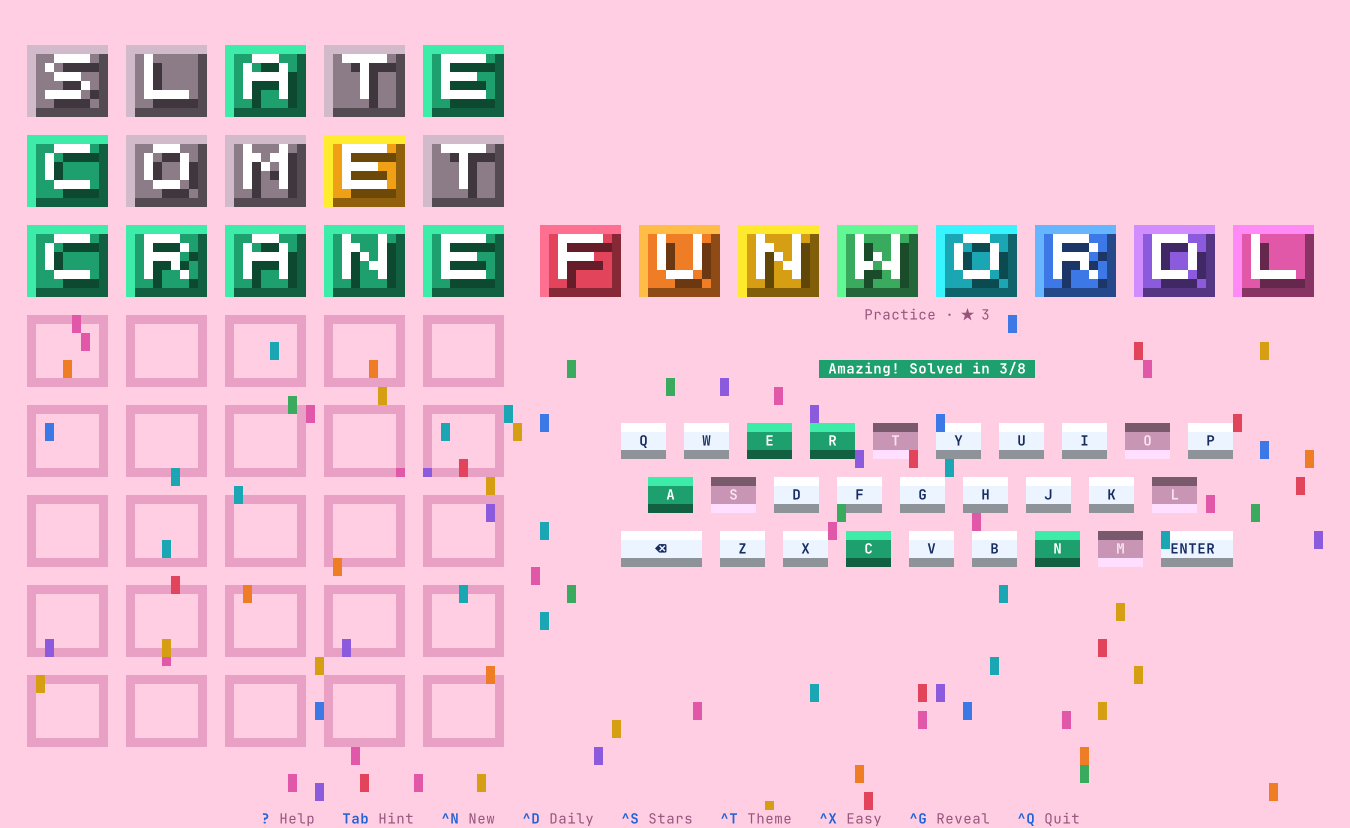
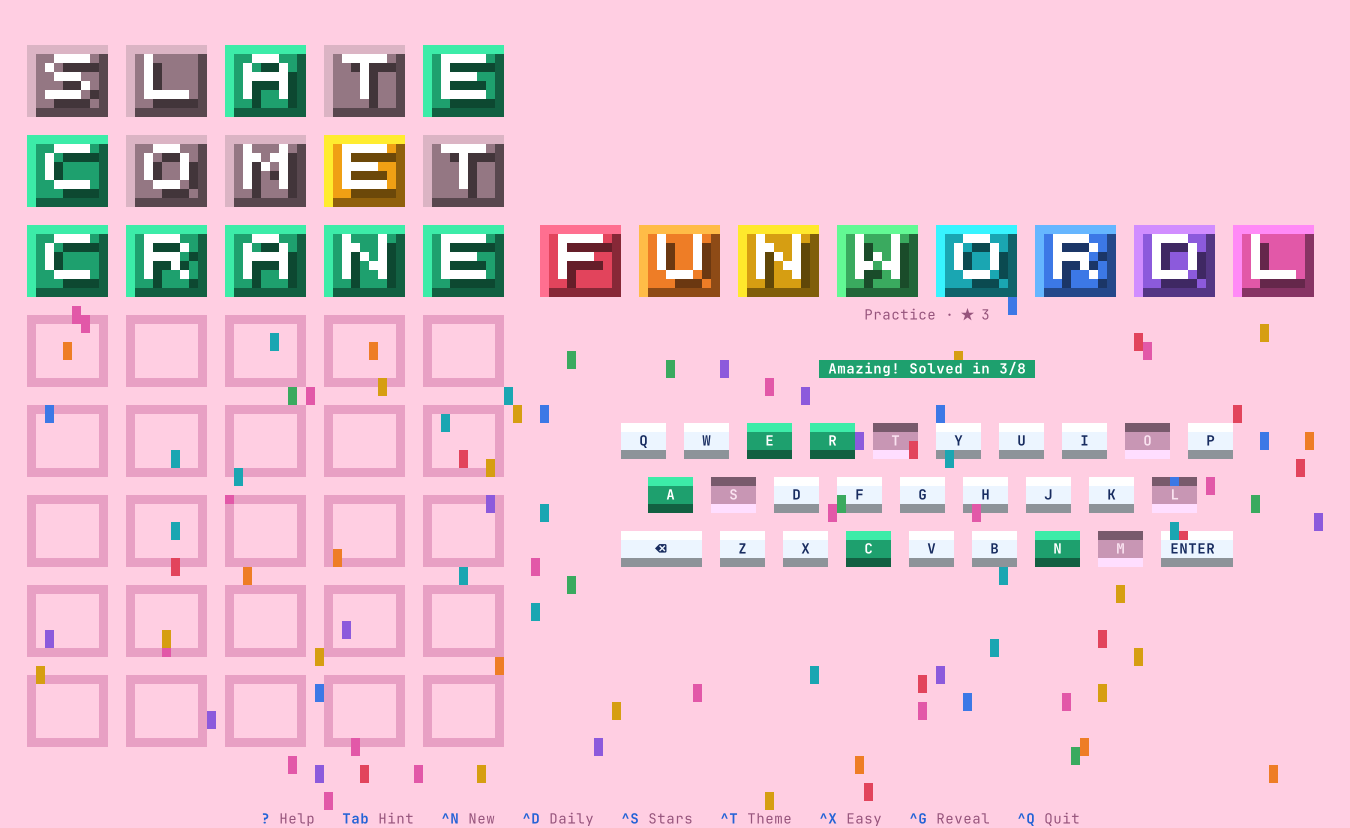
Show a letter that is not in the word as a darker shade of the background
On the bright themes a gray tile looked out of place on a colored background, so
there it is now the background's own color, darker. On the green themes the shade
is pulled towards gray so that it cannot pass for the green of a right letter. The
dark themes keep their gray.

Also: mint's background and its green are adjusted so that both stay green on
terminals with 256 colors, and a test checks that no theme's green or yellow turns
gray there.

diff --git a/src/theme.rs b/src/theme.rs
@@ -389,7 +389,7 @@ pub fn theme(name: &str, truecolor: bool) -> Theme {
         (96, 100, 132), // typed
         (78, 140, 110), // g
         (228, 164, 72), // y
-        (132, 130, 138), // x
+        (143, 138, 124), // x
         (150, 206, 176), // win
         (255, 255, 255), // gfg
         (46, 48, 72), // yfg
@@ -414,7 +414,7 @@ pub fn theme(name: &str, truecolor: bool) -> Theme {
         (33, 118, 150), // typed
         (30, 150, 96), // g
         (255, 183, 3), // y
-        (104, 116, 128), // x
+        (93, 123, 138), // x
         (120, 220, 160), // win
         (255, 255, 255), // gfg
         (2, 48, 71), // yfg
@@ -439,7 +439,7 @@ pub fn theme(name: &str, truecolor: bool) -> Theme {
         (88, 112, 190), // typed
         (30, 160, 110), // g
         (240, 160, 20), // y
-        (140, 124, 136), // x
+        (148, 119, 131), // x
         (120, 226, 176), // win
         (255, 255, 255), // gfg
         (255, 255, 255), // yfg
@@ -464,7 +464,7 @@ pub fn theme(name: &str, truecolor: bool) -> Theme {
         (120, 44, 44), // typed
         (30, 136, 92), // g
         (255, 221, 120), // y
-        (112, 100, 104), // x
+        (148, 93, 79), // x
         (80, 200, 140), // win
         (255, 255, 255), // gfg
         (28, 36, 54), // yfg
@@ -489,11 +489,11 @@ pub fn theme(name: &str, truecolor: bool) -> Theme {
         (120, 24, 36), // typed
         (22, 122, 82), // g
         (255, 230, 109), // y
-        (110, 92, 96), // x
+        (148, 62, 62), // x
         (90, 210, 150), // win
         (255, 255, 255), // gfg
         (26, 83, 92), // yfg
-        (255, 244, 244), // xfg
+        (255, 255, 255), // xfg
         (247, 255, 247), // key
         (26, 83, 92), // keyfg
         (228, 90, 94), // keyx
@@ -514,11 +514,11 @@ pub fn theme(name: &str, truecolor: bool) -> Theme {
         (255, 214, 214), // typed
         (26, 134, 86), // g
         (255, 214, 102), // y
-        (92, 80, 84), // x
+        (112, 41, 48), // x
         (80, 200, 140), // win
         (255, 255, 255), // gfg
         (70, 16, 28), // yfg
-        (244, 236, 236), // xfg
+        (255, 226, 226), // xfg
         (255, 236, 230), // key
         (70, 16, 28), // keyfg
         (190, 62, 78), // keyx
@@ -539,7 +539,7 @@ pub fn theme(name: &str, truecolor: bool) -> Theme {
         (130, 70, 30), // typed
         (46, 148, 100), // g
         (246, 214, 130), // y
-        (122, 112, 106), // x
+        (142, 94, 56), // x
         (96, 204, 150), // win
         (255, 255, 255), // gfg
         (30, 58, 70), // yfg
@@ -564,7 +564,7 @@ pub fn theme(name: &str, truecolor: bool) -> Theme {
         (150, 128, 60), // typed
         (74, 140, 88), // g
         (224, 159, 62), // y
-        (146, 142, 128), // x
+        (148, 141, 102), // x
         (130, 200, 140), // win
         (255, 255, 255), // gfg
         (255, 255, 255), // yfg
@@ -582,14 +582,14 @@ pub fn theme(name: &str, truecolor: bool) -> Theme {
         (255, 255, 255), // btnfg
         ]),
         "mint" => from_rgb("mint", truecolor, [
-        (183, 228, 199), // bg
+        (183, 228, 190), // bg
         (27, 67, 50), // fg
         (70, 120, 96), // dim
         (140, 200, 166), // empty
         (64, 145, 108), // typed
-        (45, 106, 79), // g
+        (28, 122, 80), // g
         (240, 170, 40), // y
-        (120, 134, 128), // x
+        (112, 123, 113), // x
         (116, 198, 157), // win
         (255, 255, 255), // gfg
         (255, 255, 255), // yfg
@@ -612,9 +612,9 @@ pub fn theme(name: &str, truecolor: bool) -> Theme {
         (78, 112, 50), // dim
         (140, 196, 96), // empty
         (70, 120, 50), // typed
-        (34, 120, 70), // g
+        (24, 124, 62), // g
         (226, 140, 20), // y
-        (116, 122, 112), // x
+        (103, 115, 91), // x
         (90, 200, 120), // win
         (255, 255, 255), // gfg
         (255, 255, 255), // yfg
@@ -637,9 +637,9 @@ pub fn theme(name: &str, truecolor: bool) -> Theme {
         (110, 116, 84), // dim
         (170, 182, 138), // empty
         (120, 110, 80), // typed
-        (88, 129, 87), // g
+        (58, 128, 66), // g
         (221, 161, 94), // y
-        (130, 128, 116), // x
+        (116, 119, 108), // x
         (140, 190, 130), // win
         (255, 255, 255), // gfg
         (255, 255, 255), // yfg
@@ -664,7 +664,7 @@ pub fn theme(name: &str, truecolor: bool) -> Theme {
         (120, 90, 150), // typed
         (60, 150, 110), // g
         (232, 150, 20), // y
-        (134, 128, 144), // x
+        (130, 108, 132), // x
         (120, 214, 160), // win
         (255, 255, 255), // gfg
         (255, 255, 255), // yfg
@@ -689,7 +689,7 @@ pub fn theme(name: &str, truecolor: bool) -> Theme {
         (110, 50, 120), // typed
         (30, 146, 96), // g
         (255, 214, 90), // y
-        (128, 118, 134), // x
+        (124, 86, 124), // x
         (90, 214, 170), // win
         (255, 255, 255), // gfg
         (48, 16, 60), // yfg
@@ -714,11 +714,11 @@ pub fn theme(name: &str, truecolor: bool) -> Theme {
         (224, 200, 246), // typed
         (40, 170, 120), // g
         (255, 210, 80), // y
-        (176, 168, 190), // x
+        (62, 38, 85), // x
         (110, 230, 170), // win
         (255, 255, 255), // gfg
         (50, 24, 80), // yfg
-        (50, 24, 80), // xfg
+        (236, 222, 250), // xfg
         (240, 230, 255), // key
         (50, 24, 80), // keyfg
         (98, 58, 140), // keyx
@@ -825,19 +825,57 @@ mod tests {
         assert_eq!(theme("midnight", true).party().0.map(|p| p.rgb.unwrap()), PARTY);
     }
 
-    /// Whatever the background, the three clues keep their meaning by color: right spot
-    /// is a green, wrong spot a yellow or an orange, not in the word a gray. Only
-    /// `contrast` differs, on purpose: orange and blue, for color-blind players.
+    const DARK: [&str; 5] = ["midnight", "neon", "contrast", "ocean", "ember"];
+
+    /// Whatever the background, two clues keep their meaning by color: right spot is a
+    /// green, wrong spot a yellow or an orange. Only `contrast` differs, on purpose:
+    /// orange and blue, for color-blind players.
     #[test]
-    fn clue_colors_are_green_yellow_and_gray_in_every_theme() {
+    fn right_and_wrong_spot_are_green_and_yellow_in_every_theme() {
         for name in NAMES.into_iter().filter(|name| !["terminal", "contrast"].contains(name)) {
             let th = theme(name, true);
-            let (g, y, x) = (th.g.rgb.unwrap(), th.y.rgb.unwrap(), th.x.rgb.unwrap());
+            let (g, y) = (th.g.rgb.unwrap(), th.y.rgb.unwrap());
             assert!((100.0..=165.0).contains(&hue(g)), "{name}: green is at {}", hue(g));
             assert!((25.0..=60.0).contains(&hue(y)), "{name}: yellow is at {}", hue(y));
-            let spread = x.0.max(x.1).max(x.2) - x.0.min(x.1).min(x.2);
-            // A gray may lean towards its theme (the dark themes' do), but not far.
-            assert!(spread <= 60, "{name}: gray has too much color in it ({spread})");
+            // In 256 colors too: a green near enough to gray lands on the gray ramp
+            // (indexes 232 and up) and the clue is lost.
+            let th = theme(name, false);
+            for (what, paint) in [("green", th.g), ("yellow", th.y)] {
+                assert!(matches!(paint.bg, Color::Indexed(i) if i < 232), "{name}: {what} turns gray in 256 colors");
+            }
+        }
+    }
+
+    /// A letter that is not in the word is gray on the dark themes. On the bright ones
+    /// a gray tile looked out of place, so there it is a darker shade of the
+    /// background: the same color, well below it in brightness, and never one that
+    /// could pass for the green or the yellow.
+    #[test]
+    fn not_in_the_word_is_gray_on_dark_themes_and_a_shade_of_the_screen_on_bright_ones() {
+        for name in NAMES.into_iter().filter(|name| *name != "terminal") {
+            let th = theme(name, true);
+            let (x, bg) = (th.x.rgb.unwrap(), th.bg.rgb.unwrap());
+            let spread = |c: (u8, u8, u8)| c.0.max(c.1).max(c.2) - c.0.min(c.1).min(c.2);
+            if DARK.contains(&name) {
+                // A gray may lean towards its theme, but not far.
+                assert!(spread(x) <= 60, "{name}: gray has too much color in it ({})", spread(x));
+                continue;
+            }
+            assert!(brightness(th.bg) >= brightness(th.x) + 40, "{name}: not darker than the screen");
+            // The same color as the screen: where the screen has one, its strongest and
+            // weakest of red, green and blue are the tile's too.
+            if spread(bg) > 30 {
+                let order = |c: (u8, u8, u8)| {
+                    let v = [c.0, c.1, c.2];
+                    ((0..3).max_by_key(|&i| v[i]).unwrap(), (0..3).min_by_key(|&i| v[i]).unwrap())
+                };
+                assert_eq!(order(x), order(bg), "{name}: {x:?} is not a shade of {bg:?}");
+            }
+            for (what, clue) in [("green", th.g), ("yellow", th.y)] {
+                let c = clue.rgb.unwrap();
+                let d = |a: u8, b: u8| (a as i32 - b as i32).pow(2);
+                assert!(d(x.0, c.0) + d(x.1, c.1) + d(x.2, c.2) >= 60 * 60, "{name}: {x:?} could pass for the {what} {c:?}");
+            }
         }
     }
 
@@ -861,6 +899,8 @@ mod tests {
     fn falls_back_to_256_colors() {
         // Cream must stay cream: a little less green and it lands on the cube's pink.
         assert_eq!(theme("paper", false).bg.bg, Color::Indexed(230));
+        // And mint must stay green: a little more blue and it is the cube's pale cyan.
+        assert_eq!(theme("mint", false).bg.bg, Color::Indexed(151));
         // A dark blue-gray background must not turn into the cube's dark blue.
         assert_eq!(nearest_256(17, 19, 26), Color::Indexed(233));
         assert_eq!(nearest_256(255, 255, 255), Color::Indexed(231));

diff --git a/CLAUDE.md b/CLAUDE.md
@@ -173,11 +173,20 @@ Single binary crate, no async. One file per concern in `src/`:
   are written in the theme's yellow and "Solved" in its green, but a pale yellow on
   a pale dialog disappears, so `dialog` swaps in the accent or the text color when
   the brightness is within 70 of the panel's. A test checks every theme.
-- **Themes: the three clues keep their colors** (the user's rule, 0.1.2): right spot
-  is a green, wrong spot a yellow or an orange, not in the word a gray, on every
-  theme. Only the shade is chosen to suit the background. A test checks the hues
-  (`contrast`, orange and blue for color-blind players, is the one exception). What
-  a bright theme may take from its palette is everything else: keys, frames, accent,
+- **Themes: the clues keep their colors** (the user's rule, 0.1.2): right spot is a
+  green and wrong spot a yellow or an orange on every theme, in a shade chosen to
+  suit the background. A test checks the hues, in truecolor and that neither turns
+  gray in 256 colors (`contrast`, orange and blue for color-blind players, is the
+  one exception).
+- **Not in the word is gray on the dark themes and a darker shade of the background
+  on the bright ones** (the user, 0.1.2: a gray block looked out of place on a
+  colored background). The shade is the background at 58% (50% on `ruby` and
+  `grape`). On the green themes it is also pulled most of the way to gray, because a
+  dark green tile beside the green of a right letter says the wrong thing. A test
+  checks that it is darker than the screen, of the screen's color, and not close to
+  that theme's green or yellow. `daylight`'s is gray: that is what a shade of white
+  is.
+- What a bright theme may take from its palette is everything else: keys, frames, accent,
   dialogs, buttons, the message chip. Those are picked to complement the background
   (blue keys on pink, purple buttons on green, gold on purple), mostly from
   well-known five-color palettes, named in a comment above each theme.
@@ -189,7 +198,8 @@ Single binary crate, no async. One file per concern in `src/`:
   title letter and a share of the confetti would vanish.
 - **A theme's background must survive 256 colors.** The nearest of 256 can be another
   color altogether: `paper`'s cream had to stay (246, 238, 214), because the cream
-  of the palette it otherwise follows lands on light gray. Look at a new theme with
+  of the palette it otherwise follows lands on light gray, and `mint` with a little
+  more blue in it came out pale cyan. Look at a new theme with
   and without `COLORTERM`.
 - **Its own daily word** (`app::daily_answer`, `DAILY_BASE`): a different formula from
   wordl's, so that playing one game does not give away the other. A test checks they
@@ -240,7 +250,9 @@ dialog lines of at most 35 characters, tests beside the code.
   retuned to that, `daylight` was left (white has no complement). The user then
   made the limit explicit: the clue colors "stick to the green, yellow/orange and
   grey shades", and "the dark backgrounds that you have now are great", so the five
-  dark themes are wordl's, untouched. The palettes were chosen and looked at by
+  dark themes are wordl's, untouched. On seeing gray described, the user changed
+  the third: "instead of grey you can use a darker shade of the background color. I
+  don't want the blocks to look out of place." The palettes were chosen and looked at by
   Claude as drawn pictures, in truecolor; **not yet seen by the user**.
 - **Hints on Normal as well as Easy** (asked for by the user, 0.1.2). After 0.1.1
   made Normal the default, a new player had no hints at all unless they found Easy.

diff --git a/README.md b/README.md
@@ -232,9 +232,10 @@ Dark: `midnight`, `neon`, `contrast`, `ocean` and `ember`.
 And `terminal`, which uses only your terminal's own 16 colors, so it follows your
 terminal theme.
 
-On every theme a letter in the right spot is green, one in the wrong spot is yellow or
-orange, and one that is not in the word is gray; only their shades change to suit the
-background. The exception is `contrast`, which uses orange and blue instead, for
+On every theme a letter in the right spot is green and one in the wrong spot is yellow
+or orange, in shades that suit the background. A letter that is not in the word is
+gray on the dark themes and a darker shade of the background on the bright ones. The
+exception is `contrast`, which uses orange and blue instead of green and yellow, for
 color-blind players.
 
 ### Terminal size
